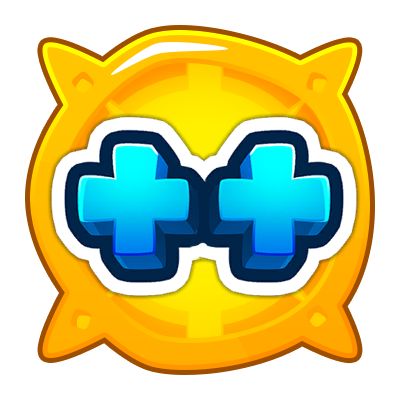
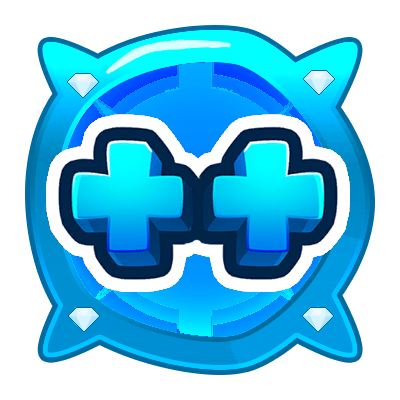
Polishing up more tiers

diff --git a/UpgradeScreenPlusPlus.cs b/UpgradeScreenPlusPlus.cs
@@ -3,8 +3,10 @@ using System.Linq;
 using BTD_Mod_Helper;
 using BTD_Mod_Helper.Api;
 using BTD_Mod_Helper.Api.Components;
+using BTD_Mod_Helper.Api.Enums;
 using BTD_Mod_Helper.Extensions;
 using HarmonyLib;
+using Il2CppAssets.Scripts.Models.Towers;
 using Il2CppAssets.Scripts.Models.Towers.Behaviors.Abilities;
 using Il2CppAssets.Scripts.Unity.UI_New.Upgrade;
 using Il2CppSystem.Collections.Generic;
@@ -19,7 +21,7 @@ namespace PathsPlusPlus;
 internal class UpgradeScreenPlusPlus : MonoBehaviour
 {
     private const int TopBarHeight = 345;
-    private const int LeftSideWidth = 1240;
+    private const int LeftSideWidth = 1240; // TODO fix for non 16x9
     private const int PathsSpacing = 525;
     private const int UpgradeSpacing = 490;
 
@@ -59,18 +61,19 @@ internal class UpgradeScreenPlusPlus : MonoBehaviour
             upgradeDetails.gameObject.SetActive(false);
         }
 
-        var paths = PathsPlusPlusMod.PathsByTower.TryGetValue(towerId, out var allPaths)
-            ? allPaths.Where(path => path is { ShowInMenu: true }).ToList()
+        var extraPaths = PathsPlusPlusMod.PathsByTower.TryGetValue(towerId, out var somePaths)
+            ? somePaths.Where(path => path is { ShowInMenu: true }).ToList()
             : new System.Collections.Generic.List<PathPlusPlus>();
 
         var extendedPaths = PathsPlusPlusMod.ExtendedPathsByTower.TryGetValue(towerId, out var morePaths)
             ? morePaths.Where(path => path is { ShowInMenu: true }).ToList()!
             : new System.Collections.Generic.List<PathPlusPlus>();
 
+        var allPaths = extraPaths.Concat(extendedPaths).ToArray();
 
         var paragonPanel = upgradeScreen.paragonPanel.transform;
 
-        if (paths.Count == 0 && extendedPaths.Count == 0)
+        if (allPaths.Length == 0)
         {
             scrollPanel.ScrollRect.enabled = false;
             paragonPanel.localPosition = Vector3.zero;
@@ -78,16 +81,19 @@ internal class UpgradeScreenPlusPlus : MonoBehaviour
             return;
         }
 
+        var maxUpgrades = allPaths.Max(path => path.UpgradeCount);
+        var minForScrolling = upgradeScreen.ShowParagonPanel() ? 6 : 7;
+
         scrollPanel.ScrollRect.enabled = true;
-        scrollPanel.ScrollRect.horizontal = extendedPaths.Any();
-        scrollPanel.ScrollRect.vertical = paths.Any();
+        scrollPanel.ScrollRect.horizontal = maxUpgrades >= minForScrolling;
+        scrollPanel.ScrollRect.vertical = extraPaths.Any();
 
 
         var before = upgradePaths.localPosition;
         var deltaY = 0f;
-        for (var path = 0; path < paths.Count; path++)
+        for (var path = 0; path < extraPaths.Count; path++)
         {
-            var pathPlusPlus = paths[path];
+            var pathPlusPlus = extraPaths[path];
             deltaY += PathsSpacing;
 
             GameObject upgradePath;
@@ -126,16 +132,10 @@ internal class UpgradeScreenPlusPlus : MonoBehaviour
                     }
 
                     var upgrade = upgradeDetails[i];
-                    upgrade.gameObject.SetActive(true);
                     var upgradePlusPlus = pathPlusPlus.Upgrades[i];
                     if (upgradePlusPlus == null) continue;
 
-
-                    upgrade.SetUpgrade(towerId, upgradePlusPlus.GetUpgradeModel(),
-                        new List<AbilityModel>().Cast<ICollection<AbilityModel>>(), pathPlusPlus.Path,
-                        upgradePlusPlus.PortraitReference);
-
-                    upgrade.abilityObject.SetActive(upgradePlusPlus.Ability);
+                    SetUpgrade(upgrade, upgradePlusPlus);
                 }
                 catch (Exception e)
                 {
@@ -187,13 +187,7 @@ internal class UpgradeScreenPlusPlus : MonoBehaviour
 
                     var upgrade = extraUpgrades.Get(index);
 
-                    upgrade.gameObject.SetActive(true);
-
-                    upgrade.SetUpgrade(towerId, upgradePlusPlus.GetUpgradeModel(),
-                        new List<AbilityModel>().Cast<ICollection<AbilityModel>>(), extendedPath.ExtendVanillaPath,
-                        upgradePlusPlus.PortraitReference);
-
-                    upgrade.abilityObject.SetActive(upgradePlusPlus.Ability);
+                    SetUpgrade(upgrade, upgradePlusPlus);
                 }
                 catch (Exception e)
                 {
@@ -211,6 +205,29 @@ internal class UpgradeScreenPlusPlus : MonoBehaviour
 
         scrollContent.sizeDelta = new Vector2(deltaX, deltaY);
         upgradePaths.localPosition = before;
+    }
+
+    private static void SetUpgrade(UpgradeDetails upgrade, UpgradePlusPlus upgradePlusPlus)
+    {
+        upgrade.gameObject.SetActive(true);
+
+        upgrade.SetUpgrade(upgradePlusPlus.Path.Tower, upgradePlusPlus.GetUpgradeModel(),
+            new List<AbilityModel>().Cast<ICollection<AbilityModel>>(), upgradePlusPlus.Path.Path,
+            upgradePlusPlus.PortraitReference ??
+            ModContent.CreateSpriteReference(
+                VanillaSprites.ByName.TryGetValue(
+                    upgradePlusPlus.Path.Tower.Replace(TowerType.WizardMonkey, "Wizard") + "000", out var guid)
+                    ? guid
+                    : ""));
+
+        upgrade.abilityObject.SetActive(upgradePlusPlus.Ability);
+
+        var theme = upgradePlusPlus.Tier >= 5 ? upgrade.tier5Theme : upgrade.standardTheme;
+        upgrade.theme = theme.MemberwiseClone().Cast<UpgradeDetails.UpgradeDetailsTheme>();
+        if (upgradePlusPlus.ContainerReference is not null)
+        {
+            upgrade.theme.owned = upgradePlusPlus.ContainerReference;
+        }
     }
 
     public static UpgradeScreenPlusPlus Setup(UpgradeScreen upgradeScreen)

diff --git a/PathsPlusPlusMod.cs b/PathsPlusPlusMod.cs
@@ -5,7 +5,10 @@ using BTD_Mod_Helper;
 using BTD_Mod_Helper.Api;
 using BTD_Mod_Helper.Api.Enums;
 using BTD_Mod_Helper.Api.ModOptions;
+using BTD_Mod_Helper.Extensions;
+using Il2CppAssets.Scripts.Models;
 using Il2CppAssets.Scripts.Models.Profile;
+using Il2CppAssets.Scripts.Models.TowerSets;
 using Il2CppAssets.Scripts.Simulation.Towers;
 using Il2CppAssets.Scripts.Unity.UI_New.InGame;
 using MelonLoader;
@@ -102,6 +105,31 @@ public class PathsPlusPlusMod : BloonsTD6Mod
         {7, UpgradePath8},
         {8, UpgradePath9},
     };
+
+    /// <inheritdoc />
+    public override void OnNewGameModel(GameModel gameModel)
+    {
+        foreach (var towerDetails in gameModel.towerSet.OfIl2CppType<ShopTowerDetailsModel>())
+        {
+            if (ExtendedPathsByTower.TryGetValue(towerDetails.towerId, out var paths))
+            {
+                if (towerDetails.pathOneMax == 5 && paths[0] != null)
+                {
+                    towerDetails.pathOneMax = paths[0]!.UpgradeCount;
+                }
+                
+                if (towerDetails.pathTwoMax == 5 && paths[1] != null)
+                {
+                    towerDetails.pathTwoMax = paths[1]!.UpgradeCount;
+                }
+                
+                if (towerDetails.pathThreeMax == 5 && paths[2] != null)
+                {
+                    towerDetails.pathThreeMax = paths[2]!.UpgradeCount;
+                }
+            }
+        }
+    }
 
 
     /// <inheritdoc />

diff --git a/Patches/PreventPatches.cs b/Patches/PreventPatches.cs
@@ -4,8 +4,10 @@ using Il2CppAssets.Scripts.Models.Towers.Upgrades;
 using Il2CppAssets.Scripts.Simulation.Input;
 using Il2CppAssets.Scripts.Simulation.Objects;
 using Il2CppAssets.Scripts.Simulation.Towers;
+using Il2CppAssets.Scripts.Simulation.Towers.Behaviors;
 using Il2CppAssets.Scripts.Unity.Bridge;
 using Il2CppAssets.Scripts.Unity.UI_New.InGame.TowerSelectionMenu;
+using Il2CppAssets.Scripts.Unity.UI_New.Upgrade;
 
 namespace PathsPlusPlus.Patches;
 
@@ -145,6 +147,32 @@ internal static class UpgradeModel_IsParagon
     private static bool Prefix(UpgradeModel __instance, ref bool __result)
     {
         if (PathsPlusPlusMod.UpgradesById.ContainsKey(__instance.name))
+        {
+            __result = false;
+            return false;
+        }
+
+        return true;
+    }
+}
+
+[HarmonyPatch(typeof(UpgradeObject), nameof(UpgradeObject.PostSimUpgrade))]
+internal static class UpgradeObject_PostSimUpgrade
+{
+    [HarmonyPrefix]
+    private static bool Prefix(UpgradeObject __instance)
+    {
+        return __instance.isActiveAndEnabled;
+    }
+}
+
+[HarmonyPatch(typeof(BeastHandlerUpgradeLock), nameof(BeastHandlerUpgradeLock.IsUpgradeBlocked))]
+internal static class BeastHandlerUpgradeLock_IsUpgradeBlocked
+{
+    [HarmonyPrefix]
+    private static bool Prefix(BeastHandlerUpgradeLock __instance, int path, ref bool __result)
+    {
+        if (path >= 3)
         {
             __result = false;
             return false;

diff --git a/Patches/UiPatches.cs b/Patches/UiPatches.cs
@@ -50,6 +50,18 @@ internal static class TowerSelectionMenu_SelectTower
 [HarmonyPatch(typeof(TowerSelectionMenu), nameof(TowerSelectionMenu.InitUpgradeButtons))]
 internal static class TowerSelectionMenu_InitUpgradeButtons
 {
+    [HarmonyPrefix]
+    private static void Prefix(TowerSelectionMenu __instance)
+    {
+        foreach (var upgradeButton in __instance.upgradeButtons)
+        {
+            if (upgradeButton.gameObject.HasComponent(out UpgradeObjectPlusPlus button))
+            {
+                button.pathId = null;
+            }    
+        }
+    }
+    
     [HarmonyPostfix]
     private static void Postfix(TowerSelectionMenu __instance)
     {
@@ -245,7 +257,7 @@ internal class UpgradeObject_CheckBlockedPath
         var pathPlusPlus = PathPlusPlus.GetPath(tower.towerModel.baseId, path);
         var max = pathPlusPlus?.UpgradeCount ?? 5;
 
-        if (!PathsPlusPlusMod.BalancedMode)
+        if (!PathsPlusPlusMod.BalancedMode || path < 3 && ModHelper.HasMod("UltimateCrosspathing"))
         {
             if (pathPlusPlus != null) __result = max;
             return;
@@ -335,6 +347,7 @@ internal static class TowerManager_GetTowerUpgradeCost
     }
 }
 
+// Adding extra upgrade pips
 [HarmonyPatch(typeof(UpgradeObject), nameof(UpgradeObject.SetTier), typeof(int), typeof(int), typeof(int))]
 internal static class UpgradeObject_SetTier
 {

diff --git a/UpgradePlusPlus.cs b/UpgradePlusPlus.cs
@@ -56,10 +56,8 @@ public abstract class UpgradePlusPlus : NamedModContent
     /// <summary>
     /// Sprite reference for the portrait
     /// </summary>
-    public virtual SpriteReference PortraitReference => string.IsNullOrEmpty(Portrait)
-        ? GetSpriteReferenceOrNull(Path.Name) ??
-          CreateSpriteReference(
-              VanillaSprites.ByName.GetValueOrDefault(Path.Tower.Replace(TowerType.WizardMonkey, "Wizard") + "000"))
+    public virtual SpriteReference? PortraitReference => string.IsNullOrEmpty(Portrait)
+        ? GetSpriteReferenceOrNull(Path.Name)
         : GetSpriteReferenceOrDefault(Portrait);
 
     /// <summary>
@@ -74,6 +72,16 @@ public abstract class UpgradePlusPlus : NamedModContent
         string.IsNullOrEmpty(Container) ? null : GetSpriteReferenceOrDefault(Container);
 
     private UpgradeModel? upgradeModel;
+
+    /// <summary>
+    /// A Platinum version of the Tier 5 Upgrade Container
+    /// </summary>
+    protected static string UpgradeContainerPlatinum => GetTextureGUID<PathsPlusPlusMod>("UpgradeContainerPlatinum");
+
+    /// <summary>
+    /// A Diamond version of the Tier 5 Upgrade Container
+    /// </summary>
+    protected static string UpgradeContainerDiamond => GetTextureGUID<PathsPlusPlusMod>("UpgradeContainerDiamond");
 
     /// <inheritdoc />
     public override void Register()

diff --git a/ModHelperData.cs b/ModHelperData.cs
@@ -2,12 +2,12 @@ namespace PathsPlusPlus;
 
 internal static class ModHelperData
 {
-    public const string WorksOnVersion = "37.0";
-    public const string Version = "1.0.1";
+    public const string WorksOnVersion = "38.0";
+    public const string Version = "1.1.0-alpha";
     public const string Name = "Paths++";
 
-    public const string Description = "A helper mod allowing additional upgrade paths to be made for towers.\n\n" +
-                                      "Toggle 'Balanced Mode' to switch from being still only able get up to 5 upgrades in any one path and 2 in another, " +
+    public const string Description = "A helper mod allowing additional upgrade paths and tiers to be made for towers.\n\n" +
+                                      "Toggle 'Balanced Mode' to switch from being still only able get up to max upgrades in any one path and 2 in another, " +
                                       "vs getting all vanilla upgrades you normally can as well as any/all available Paths++ upgrades.\n\n" +
                                       "Toggling off Balanced Mode can also function well with Ultimate Crosspathing (assuming the Mod Creators were keeping it in mind while coding).";
 

diff --git a/PathPlusPlus.cs b/PathPlusPlus.cs
@@ -117,7 +117,10 @@ public abstract class PathPlusPlus : ModContent
         }
     }
 
-    internal int Priority => Order - 100;
+    /// <summary>
+    /// The Priority given to the PathPlusPlus mutator on the tower
+    /// </summary>
+    protected virtual int Priority => -100 - Order;
 
     /// <summary>
     /// Applies all upgrades for this path up through the given tier on a TowerModel.
@@ -134,7 +137,7 @@ public abstract class PathPlusPlus : ModContent
 
             upgrade.ApplyUpgrade(tower);
             upgrade.ApplyUpgrade(tower, tier);
-            if (upgrade.IsHighestUpgrade(tower))
+            if (upgrade.IsHighestUpgrade(tower) && upgrade.PortraitReference is not null)
             {
                 tower.portrait = upgrade.PortraitReference;
             }
@@ -154,7 +157,7 @@ public abstract class PathPlusPlus : ModContent
         if (mutatorById == null || !mutatorById.mutator.Is(out RateSupportModel.RateSupportMutator mutator))
             return Path <= 2 ? tower.towerModel.tiers[Path] : 0;
 
-        return Convert.ToInt32(mutator.Cast<RateSupportModel.RateSupportMutator>().multiplier);
+        return Convert.ToInt32(mutator.multiplier);
     }
 
 

diff --git a/PathsPlusPlusController.cs b/PathsPlusPlusController.cs
@@ -168,6 +168,14 @@ internal class PathsPlusPlusController : MonoBehaviour
 
     public void InitUpgradeButtons()
     {
+        foreach (var upgradeButton in menu.upgradeButtons)
+        {
+            if (upgradeButton.gameObject.HasComponent(out UpgradeObjectPlusPlus button))
+            {
+                button.pathId = null;
+            }    
+        }
+        
         if (menu.selectedTower is not { hero: null, tower.towerModel.isParagon: false } tower) return;
 
         if (!PathsPlusPlusMod.PathsByTower.TryGetValue(tower.Def.baseId, out var list))
